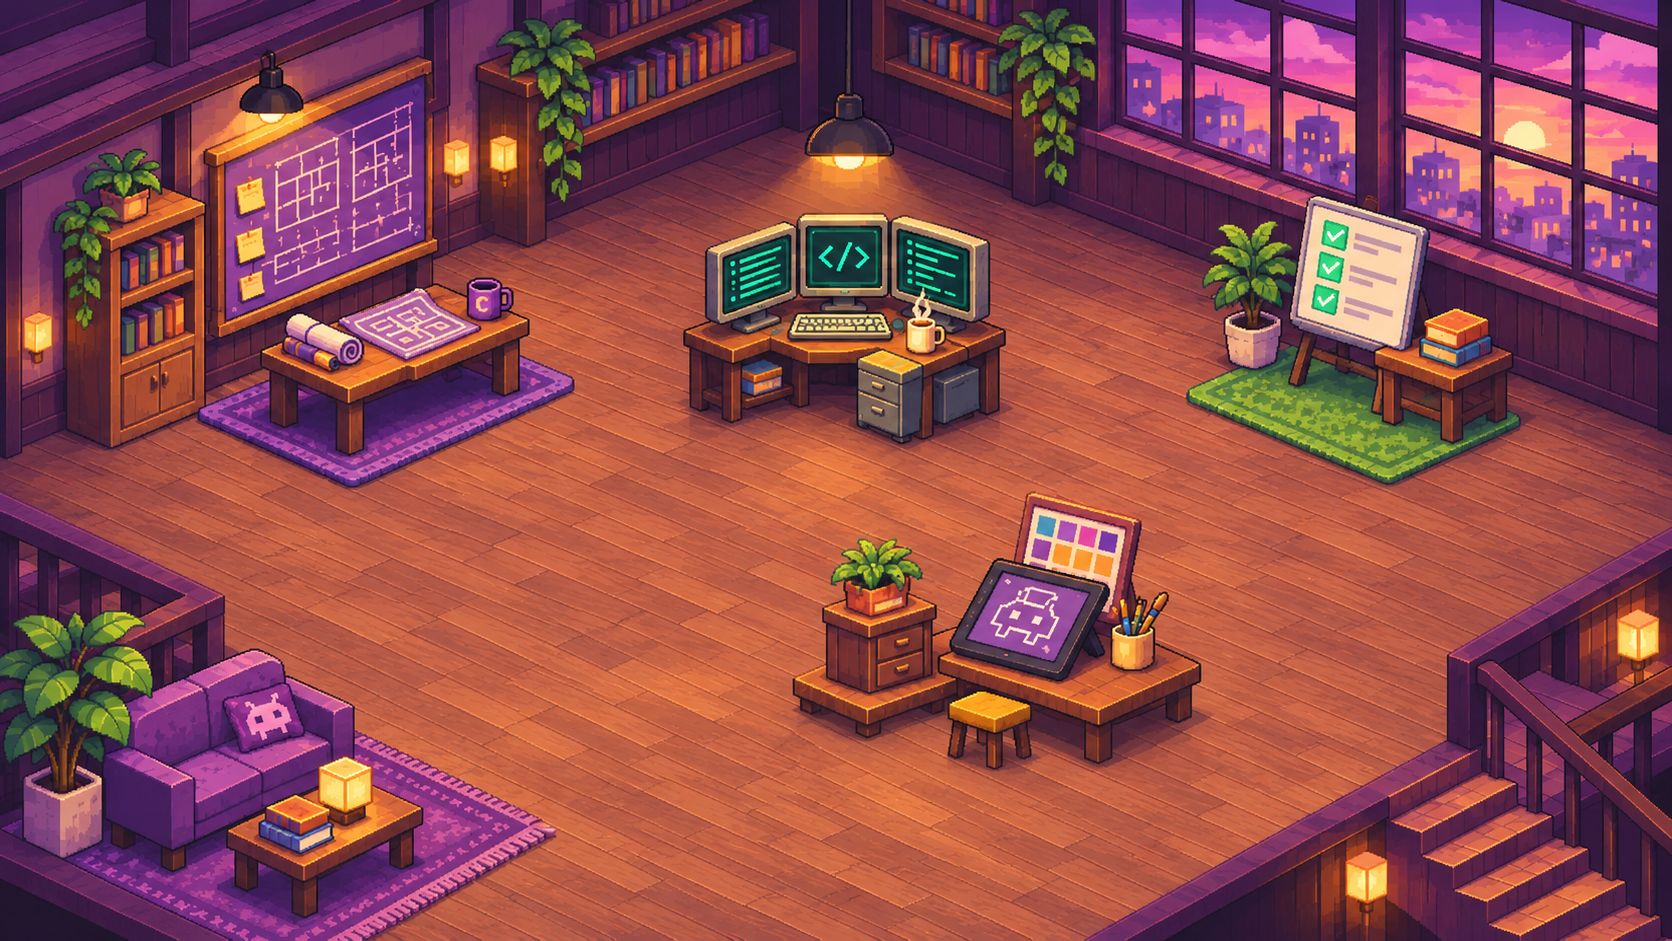
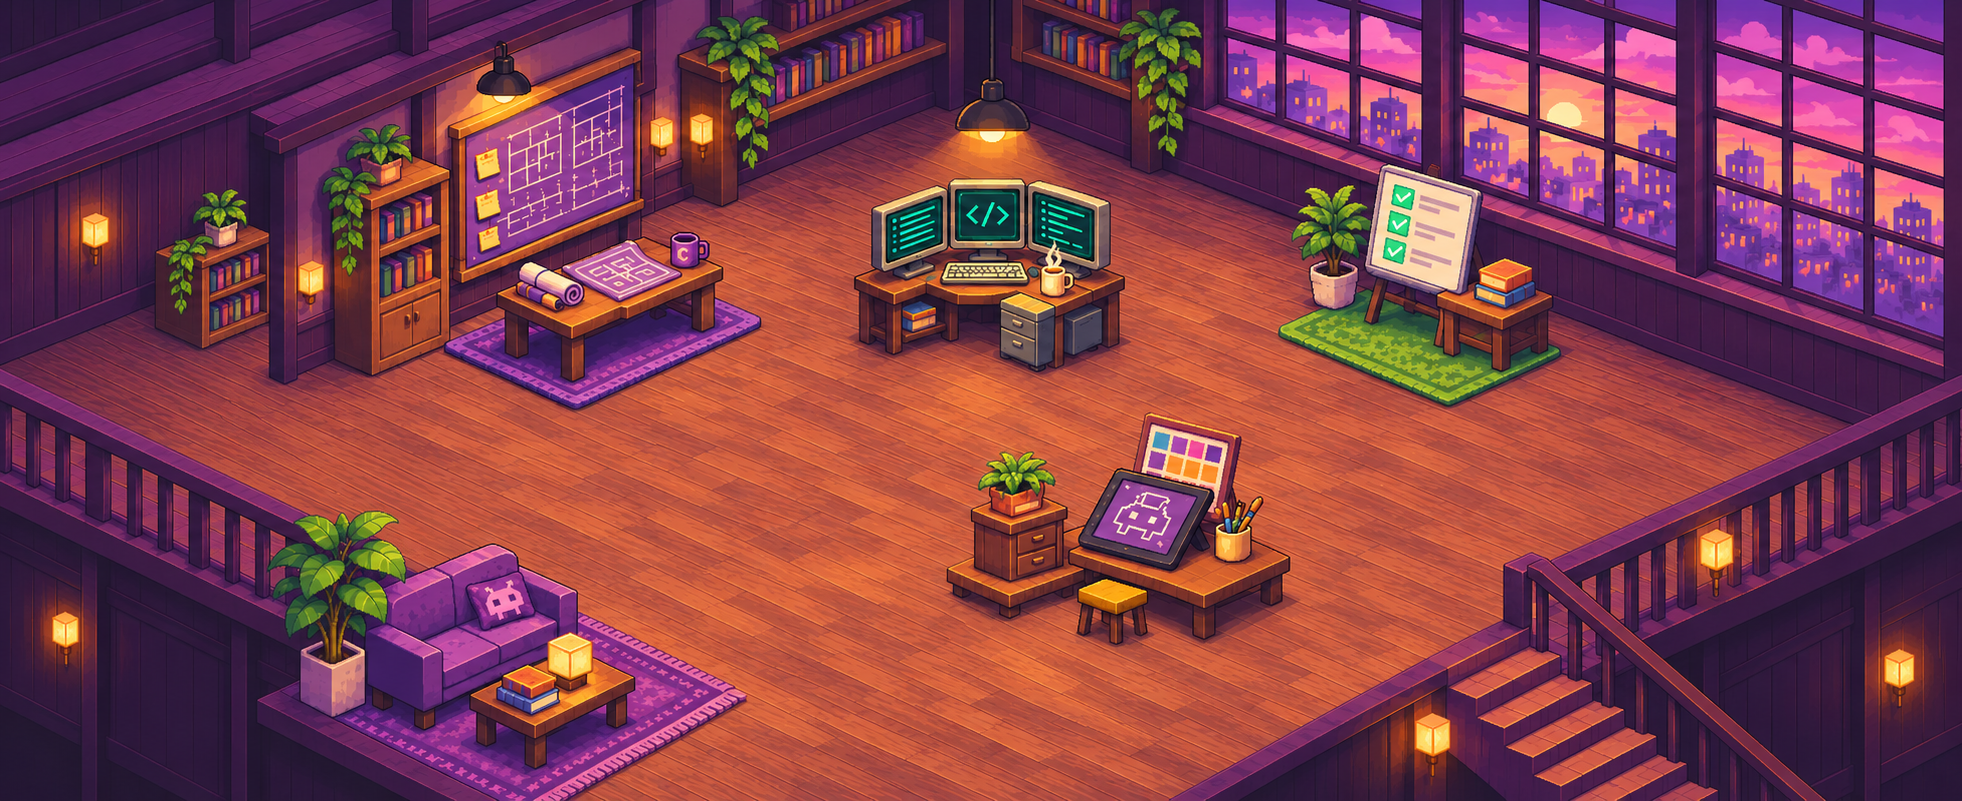
feat: wider Office room art (1962x801) fills wide screens without zooming in
New workshop.png panorama, stage 1764x720 with re-measured station, hot desk and lamp
positions (lamp now from scene.json). Narrow layout crops the outer walls to the stations
instead of showing a thin full-width strip.

diff --git a/runner/office.html b/runner/office.html
@@ -433,17 +433,18 @@ const demoClosed = q.get("demo") === "closed";
 // Server-shaped lane statuses (key + tone): a running lane, a verified lane and a stalled running lane.
 const demoClips = q.get("demo") === "clips";
 const mode = q.has("demo") ? "demo" : "live";
-let STAGE_W = 1280, STAGE_H = 720;
+let STAGE_W = 1764, STAGE_H = 720;
 const HOTDESKS = [
-  { key: "hot1", role: "hot1", foot: [470, 250], prop: "hotdesk", plate: "below" },
-  { key: "hot2", role: "hot2", foot: [455, 470], prop: "hotdesk", plate: "below" },
-  { key: "hot3", role: "hot3", foot: [840, 290], prop: "hotdesk", plate: "below" },
-  { key: "hot4", role: "hot4", foot: [480, 625], prop: "hotdesk", plate: "below" },
-  { key: "hot5", role: "hot5", foot: [1010, 615], prop: "hotdesk", plate: "below" },
+  { key: "hot1", role: "hot1", foot: [387, 431], prop: "hotdesk", plate: "below" },
+  { key: "hot2", role: "hot2", foot: [683, 422], prop: "hotdesk", plate: "below" },
+  { key: "hot3", role: "hot3", foot: [1425, 422], prop: "hotdesk", plate: "below" },
+  { key: "hot4", role: "hot4", foot: [773, 629], prop: "hotdesk", plate: "below" },
+  { key: "hot5", role: "hot5", foot: [1258, 548], prop: "hotdesk", plate: "below" },
 ];
 let SCENE = {
-  stage: [1280, 720],
-  stations: { lead: { foot: [292, 356] }, builder: { foot: [626, 354] }, artist: { foot: [759, 601] }, reviewer: { foot: [1036, 350] } },
+  stage: [1764, 720],
+  lamp: [881, 121, 210, 155],
+  stations: { lead: { foot: [539, 346] }, builder: { foot: [870, 342] }, artist: { foot: [998, 589] }, reviewer: { foot: [1276, 325] } },
   hotdesks: HOTDESKS,
   fixture: {
     events: [
@@ -466,7 +467,7 @@ async function loadScene() {
     const j = await r.json();
     if (j && Array.isArray(j.stageSize) && j.stageSize.length === 2 && j.stations && ["lead", "builder", "artist", "reviewer"].every((s) => j.stations[s] && Array.isArray(j.stations[s].foot))) {
       const hd = Array.isArray(j.hotdesks) && j.hotdesks.length ? j.hotdesks : HOTDESKS;
-      SCENE = { stage: j.stageSize, stations: j.stations, hotdesks: hd, fixture: j.fixture || { events: [] } };
+      SCENE = { stage: j.stageSize, stations: j.stations, hotdesks: hd, lamp: Array.isArray(j.lamp) && j.lamp.length === 4 ? j.lamp : SCENE.lamp, fixture: j.fixture || { events: [] } };
     }
   } catch (e) {}
 }
@@ -891,55 +892,52 @@ function sizeStage() {
   document.body.classList.toggle("narrow", narrow);
   document.documentElement.classList.toggle("narrow", narrow);
   const w = wrap.clientWidth || 1;
+  // Content box in room units, from the station and hotdesk feet: sprites and desks sit above the foot,
+  // the plate 34 units below it. Clamped to the room. The room art is wider than 16:9, so its outer
+  // walls and railings may be cropped, but never a station.
+  let minFootX = Infinity, maxFootX = -Infinity, minFootY = Infinity, maxFootY = -Infinity;
+  const feet = Object.keys(SCENE.stations).map((key) => SCENE.stations[key] && SCENE.stations[key].foot).concat(SCENE.hotdesks.map((hd) => hd && hd.foot));
+  for (const f of feet) { if (f) { minFootX = Math.min(minFootX, f[0]); maxFootX = Math.max(maxFootX, f[0]); minFootY = Math.min(minFootY, f[1]); maxFootY = Math.max(maxFootY, f[1]); } }
+  const padX = narrow ? 60 : 110; // narrow shows no plates on the room (the station list sits below it)
+  let boxX0 = 0, boxX1 = STAGE_W, boxY0 = 0, boxY1 = STAGE_H;
+  if (Number.isFinite(minFootX)) {
+    boxX0 = Math.max(0, minFootX - padX); boxX1 = Math.min(STAGE_W, maxFootX + padX);
+    boxY0 = Math.max(0, minFootY - 110); boxY1 = Math.min(STAGE_H, maxFootY + 60);
+  }
+  const boxW = Math.max(1, boxX1 - boxX0), boxH = Math.max(1, boxY1 - boxY0);
   let h;
   if (narrow) {
-    // Narrow: the whole room at its own aspect; the station list sits right below it.
-    h = Math.round((w * STAGE_H) / STAGE_W);
+    // Narrow: the room spans the width with its outer walls cropped to the stations, at full height;
+    // the station list sits right below it.
+    k = Math.max(w / STAGE_W, Math.min(w / boxW, (w * 0.75) / STAGE_H));
+    h = Math.round(STAGE_H * k);
     wrap.style.height = h + "px";
   } else {
     wrap.style.height = "";
     h = wrap.clientHeight || 1;
+    // Desktop: a content-aware cover fit. The room is scaled to cover the whole stage so no dark band
+    // shows, but never so far that a station (its sprite, desk or plate) leaves the stage: the cover ratio
+    // is capped by the content box (10 px stage margin) and floored at the fit ratio. Any leftover area
+    // shows #roomfill, a blurred copy of the room.
+    const kFit = Math.min(w / STAGE_W, h / STAGE_H);
+    const kCover = Math.max(w / STAGE_W, h / STAGE_H);
+    k = Math.max(kFit, Math.min(kCover, (w - 20) / boxW, (h - 20) / boxH));
   }
   stage.style.width = w + "px";
   stage.style.height = h + "px";
-  // Desktop uses a content-aware cover fit: the room is scaled to cover the whole stage so no dark band
-  // shows, but never so far that a station (its sprite, desk or plate) leaves the stage. The cover ratio
-  // is capped by the content box so the feet and their plates stay inside with a 10 px stage margin, and
-  // floored at the fit ratio. Narrow keeps its own aspect and centring.
-  let iw, ih;
-  if (narrow) {
-    k = w / STAGE_W;
-    iw = STAGE_W * k; ih = STAGE_H * k;
-    ox = (w - iw) / 2;
-    oy = (h - ih) / 2;
-  } else {
-    const kFit = Math.min(w / STAGE_W, h / STAGE_H);
-    const kCover = Math.max(w / STAGE_W, h / STAGE_H);
-    // Content box in room units, from the station and hotdesk feet: sprites and desks sit above the
-    // foot, the plate 34 units below it. Clamped to the room.
-    let minFootX = Infinity, maxFootX = -Infinity, minFootY = Infinity, maxFootY = -Infinity;
-    for (const key of Object.keys(SCENE.stations)) { const f = SCENE.stations[key] && SCENE.stations[key].foot; if (f) { minFootX = Math.min(minFootX, f[0]); maxFootX = Math.max(maxFootX, f[0]); minFootY = Math.min(minFootY, f[1]); maxFootY = Math.max(maxFootY, f[1]); } }
-    for (const hd of SCENE.hotdesks) { const f = hd && hd.foot; if (f) { minFootX = Math.min(minFootX, f[0]); maxFootX = Math.max(maxFootX, f[0]); minFootY = Math.min(minFootY, f[1]); maxFootY = Math.max(maxFootY, f[1]); } }
-    let boxX0 = 0, boxX1 = STAGE_W, boxY0 = 0, boxY1 = STAGE_H;
-    if (Number.isFinite(minFootX)) {
-      boxX0 = Math.max(0, minFootX - 130); boxX1 = Math.min(STAGE_W, maxFootX + 130);
-      boxY0 = Math.max(0, minFootY - 110); boxY1 = Math.min(STAGE_H, maxFootY + 60);
-    }
-    const boxW = Math.max(1, boxX1 - boxX0), boxH = Math.max(1, boxY1 - boxY0);
-    k = Math.max(kFit, Math.min(kCover, (w - 20) / boxW, (h - 20) / boxH));
-    iw = STAGE_W * k; ih = STAGE_H * k;
-    ox = (w - iw) / 2;
-    oy = (h - ih) / 2;
-    // On an axis where the room is larger than the stage it must keep covering it; within that, slide
-    // the room so the content box keeps its 10 px margin. Where the room is smaller, keep it centred.
-    if (iw > w) {
-      const cx = Math.min(w - 10 - boxX1 * k, Math.max(10 - boxX0 * k, ox));
-      ox = Math.min(0, Math.max(w - iw, cx));
-    }
-    if (ih > h) {
-      const cy = Math.min(h - 10 - boxY1 * k, Math.max(10 - boxY0 * k, oy));
-      oy = Math.min(0, Math.max(h - ih, cy));
-    }
+  const iw = STAGE_W * k, ih = STAGE_H * k;
+  const m = narrow ? 0 : 10;
+  ox = (w - iw) / 2;
+  oy = (h - ih) / 2;
+  // On an axis where the room is larger than the stage it must keep covering it; within that, slide the
+  // room so the content box keeps its margin. Where the room is smaller, keep it centred.
+  if (iw > w) {
+    const cx = Math.min(w - m - boxX1 * k, Math.max(m - boxX0 * k, ox));
+    ox = Math.min(0, Math.max(w - iw, cx));
+  }
+  if (ih > h) {
+    const cy = Math.min(h - m - boxY1 * k, Math.max(m - boxY0 * k, oy));
+    oy = Math.min(0, Math.max(h - ih, cy));
   }
   const room = $("room");
   room.style.left = ox + "px";
@@ -1828,10 +1826,11 @@ function layoutStations() {
   const a = PixelSprites.anchor();
   const sc = spriteScale();
   const lamp = $("lamp");
-  lamp.style.left = ox + 650 * k + "px";
-  lamp.style.top = oy + 120 * k + "px";
-  lamp.style.width = 230 * k + "px";
-  lamp.style.height = 170 * k + "px";
+  const lp = SCENE.lamp || [650, 120, 230, 170]; // glow box under the ceiling lamp, stage units
+  lamp.style.left = ox + lp[0] * k + "px";
+  lamp.style.top = oy + lp[1] * k + "px";
+  lamp.style.width = lp[2] * k + "px";
+  lamp.style.height = lp[3] * k + "px";
   for (const key of STATION_KEYS) {
     const f = SCENE.stations[key].foot;
     const sp = sprites[key];
